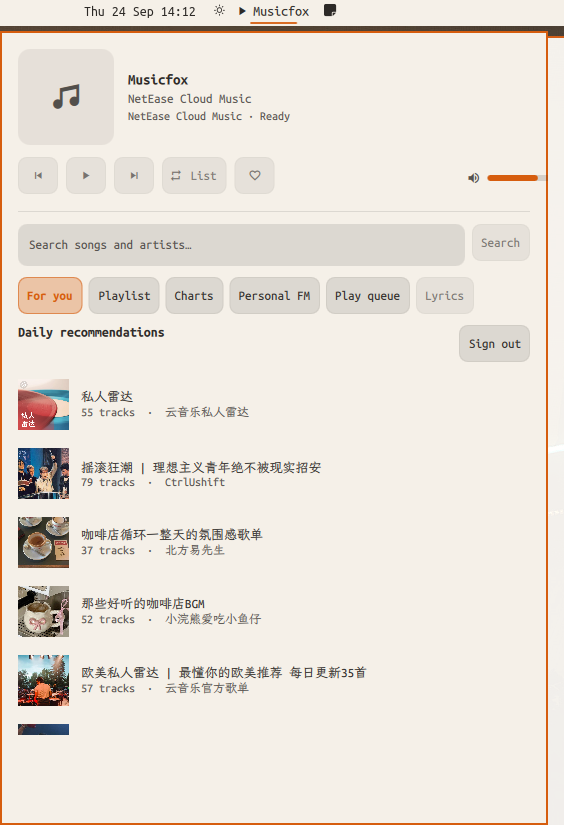
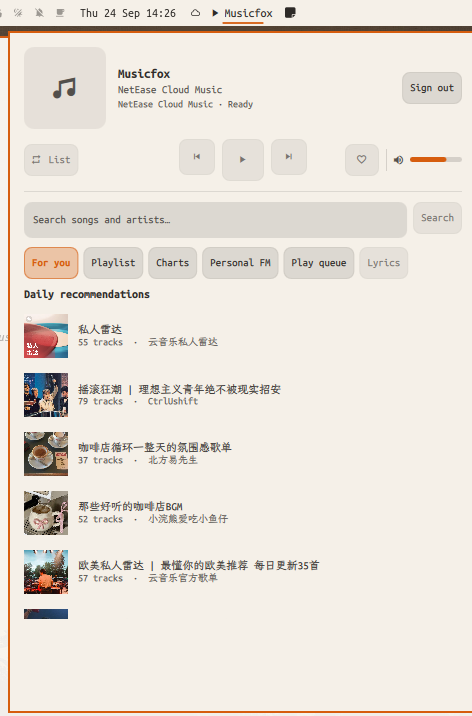
Refine player control layout
Release the reorganized toolbar and updated community preview as 0.1.2.

Amp-Thread-ID: https://ampcode.com/threads/T-01a0d145-3c45-73ce-b4b4-5f746447ddcf

diff --git a/BarWidget.qml b/BarWidget.qml
@@ -158,6 +158,7 @@ BarWidget {
         spacing: Style.space(12)
 
         Rectangle {
+          id: coverArt
           width: Style.space(82)
           height: width
           radius: Style.space(10)
@@ -180,7 +181,8 @@ BarWidget {
         }
 
         Column {
-          width: parent.width - Style.space(94)
+          width: parent.width - coverArt.width - Style.space(12) -
+            (headerLogout.visible ? headerLogout.width + Style.space(12) : 0)
           anchors.verticalCenter: parent.verticalCenter
           spacing: Style.space(4)
           Text {
@@ -209,6 +211,14 @@ BarWidget {
             font.family: root.bar ? root.bar.fontFamily : Style.font.family
             font.pixelSize: Style.font.caption
           }
+        }
+
+        MiniButton {
+          id: headerLogout
+          anchors.verticalCenter: parent.verticalCenter
+          visible: root.music && root.music.loggedIn
+          label: root.t("logout")
+          onClicked: root.music.logout()
         }
       }
 
@@ -256,55 +266,88 @@ BarWidget {
         }
       }
 
-      Row {
+      Item {
         width: parent.width
-        height: Style.space(36)
-        spacing: Style.space(7)
-        MiniButton { label: ""; enabled: root.music && root.music.hasTrack; onClicked: root.music.previous() }
+        height: Style.space(42)
+
         MiniButton {
-          label: root.music && root.music.playback.playing ? "" : ""
-          active: root.music && root.music.playback.playing
-          enabled: root.music && root.music.hasTrack
-          onClicked: root.music.toggle()
-        }
-        MiniButton { label: ""; enabled: root.music && root.music.hasTrack; onClicked: root.music.next() }
-        MiniButton {
+          id: playbackModeButton
+          anchors.left: parent.left
+          anchors.verticalCenter: parent.verticalCenter
           label: root.music && root.music.playback.mode === "repeat" ? "  " + root.t("modeRepeat") :
             (root.music && root.music.playback.mode === "shuffle" ? "  " + root.t("modeShuffle") : "  " + root.t("modeList"))
           enabled: root.music && root.music.hasTrack
           onClicked: root.music.cycleMode()
         }
-        MiniButton {
-          label: root.music && root.music.playback.liked ? "" : ""
-          active: root.music && root.music.playback.liked
-          enabled: root.music && root.music.loggedIn && root.music.hasTrack
-          onClicked: root.music.toggleLike()
-        }
-        Item { width: Math.max(0, parent.width - Style.space(286)); height: 1 }
-        Text {
-          anchors.verticalCenter: parent.verticalCenter
-          text: ""
-          color: root.mutedColor
-          font.family: root.bar ? root.bar.fontFamily : Style.font.family
-          font.pixelSize: Style.font.body
-        }
-        Rectangle {
-          anchors.verticalCenter: parent.verticalCenter
-          width: Style.space(62)
-          height: Style.space(5)
-          radius: height / 2
-          color: Util.alpha(root.textColor, 0.16)
-          Rectangle {
-            width: parent.width * Math.max(0, Math.min(1,
-              Number(root.music ? root.music.playback.volume : 70) / 100))
-            height: parent.height
-            radius: height / 2
-            color: root.accentColor
+
+        Row {
+          anchors.centerIn: parent
+          spacing: Style.space(7)
+          MiniButton {
+            implicitWidth: Style.space(36)
+            implicitHeight: Style.space(36)
+            label: ""
+            enabled: root.music && root.music.hasTrack
+            onClicked: root.music.previous()
           }
-          MouseArea {
-            anchors.fill: parent
-            cursorShape: Qt.PointingHandCursor
-            onClicked: function(mouse) { if (root.music) root.music.setVolume(100 * mouse.x / width) }
+          MiniButton {
+            implicitWidth: Style.space(42)
+            implicitHeight: Style.space(42)
+            label: root.music && root.music.playback.playing ? "" : ""
+            active: root.music && root.music.playback.playing
+            enabled: root.music && root.music.hasTrack
+            onClicked: root.music.toggle()
+          }
+          MiniButton {
+            implicitWidth: Style.space(36)
+            implicitHeight: Style.space(36)
+            label: ""
+            enabled: root.music && root.music.hasTrack
+            onClicked: root.music.next()
+          }
+        }
+
+        Row {
+          anchors.right: parent.right
+          anchors.verticalCenter: parent.verticalCenter
+          spacing: Style.space(7)
+          MiniButton {
+            label: root.music && root.music.playback.liked ? "" : ""
+            active: root.music && root.music.playback.liked
+            enabled: root.music && root.music.loggedIn && root.music.hasTrack
+            onClicked: root.music.toggleLike()
+          }
+          Rectangle {
+            anchors.verticalCenter: parent.verticalCenter
+            width: 1
+            height: Style.space(22)
+            color: Util.alpha(root.textColor, 0.16)
+          }
+          Text {
+            anchors.verticalCenter: parent.verticalCenter
+            text: ""
+            color: root.mutedColor
+            font.family: root.bar ? root.bar.fontFamily : Style.font.family
+            font.pixelSize: Style.font.body
+          }
+          Rectangle {
+            anchors.verticalCenter: parent.verticalCenter
+            width: Style.space(52)
+            height: Style.space(5)
+            radius: height / 2
+            color: Util.alpha(root.textColor, 0.16)
+            Rectangle {
+              width: parent.width * Math.max(0, Math.min(1,
+                Number(root.music ? root.music.playback.volume : 70) / 100))
+              height: parent.height
+              radius: height / 2
+              color: root.accentColor
+            }
+            MouseArea {
+              anchors.fill: parent
+              cursorShape: Qt.PointingHandCursor
+              onClicked: function(mouse) { if (root.music) root.music.setVolume(100 * mouse.x / width) }
+            }
           }
         }
       }
@@ -463,18 +506,14 @@ BarWidget {
           MiniButton { label: root.t("lyrics"); active: root.showLyrics; enabled: root.music.hasTrack; onClicked: root.showLyrics = true }
         }
 
-        Row {
+        Text {
           width: parent.width
-          Text {
-            width: parent.width - logoutButton.width
-            text: root.showLyrics ? root.t("lyrics") : root.music.viewTitle
-            color: root.textColor
-            elide: Text.ElideRight
-            font.family: root.bar ? root.bar.fontFamily : Style.font.family
-            font.pixelSize: Style.font.body
-            font.bold: true
-          }
-          MiniButton { id: logoutButton; label: root.t("logout"); onClicked: root.music.logout() }
+          text: root.showLyrics ? root.t("lyrics") : root.music.viewTitle
+          color: root.textColor
+          elide: Text.ElideRight
+          font.family: root.bar ? root.bar.fontFamily : Style.font.family
+          font.pixelSize: Style.font.body
+          font.bold: true
         }
 
         Flickable {

diff --git a/backend/cmd/omarchy-musicfox-helper/main.go b/backend/cmd/omarchy-musicfox-helper/main.go
@@ -63,7 +63,7 @@ func main() {
 	_ = app.restoreAccount()
 	app.emit("ready", map[string]any{
 		"loggedIn": app.profile.UserID != "", "profile": app.profile,
-		"playback": app.playbackPayload(), "version": "0.1.1",
+		"playback": app.playbackPayload(), "version": "0.1.2",
 	})
 
 	scanner := bufio.NewScanner(os.Stdin)

diff --git a/CHANGELOG.md b/CHANGELOG.md
@@ -3,6 +3,15 @@
 All notable changes to this project are documented here. Versions follow
 [Semantic Versioning](https://semver.org/).
 
+## [0.1.2] - 2026-09-24
+
+### Changed
+
+- Reorganize the player toolbar into distinct mode, centered transport, and
+  favorite/volume groups for clearer visual hierarchy.
+- Move sign-out into the track header so playlist titles have a dedicated row.
+- Update the public preview to show the refined signed-in layout.
+
 ## [0.1.1] - 2026-09-24
 
 ### Fixed

diff --git a/README.md b/README.md
@@ -2,7 +2,7 @@
 
 [English](README.en.md) | 简体中文
 
-**当前开发版本：0.1.1。** 在插件接口、账户存储与播放行为稳定之前，项目将保持
+**当前开发版本：0.1.2。** 在插件接口、账户存储与播放行为稳定之前，项目将保持
 `0.x` 版本，不会提前标记为 `1.0.0`。
 
 一个原生的 [Omarchy Quattro](https://omarchy.org/manual/shell-plugins/) 网易云音乐插件。

diff --git a/README.en.md b/README.en.md
@@ -2,7 +2,7 @@
 
 English | [简体中文](README.md)
 
-**Current development version: 0.1.1.** The project will remain in the `0.x`
+**Current development version: 0.1.2.** The project will remain in the `0.x`
 series until its plugin API, account storage, and playback behavior are stable.
 
 An independent NetEase Cloud Music client for Omarchy Quattro. It is inspired
